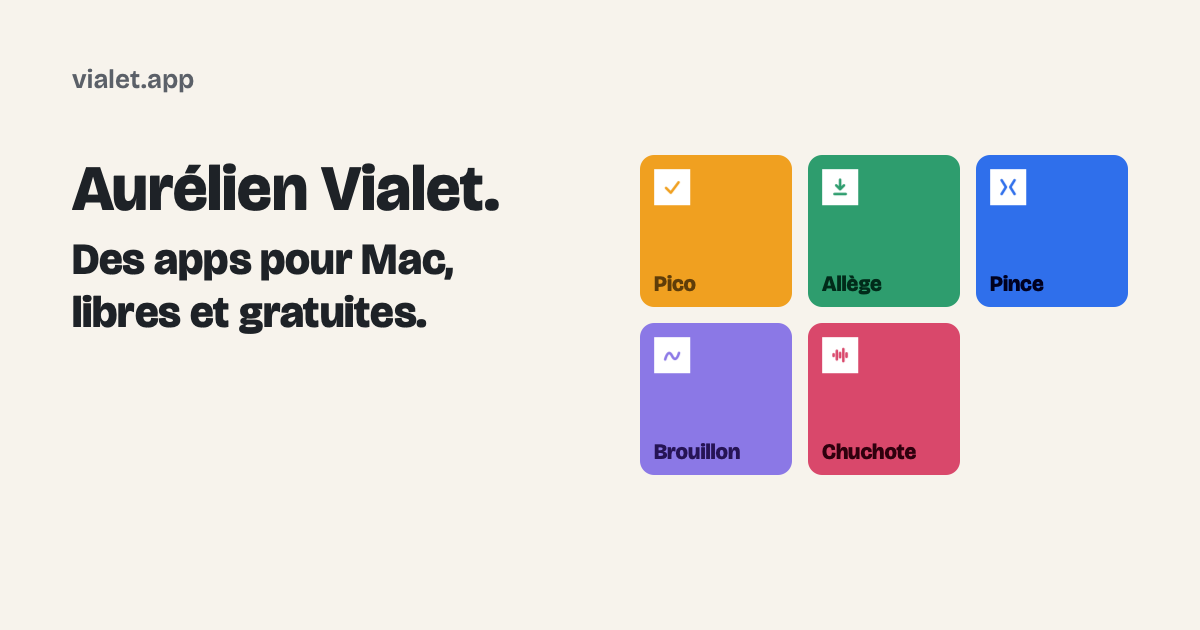
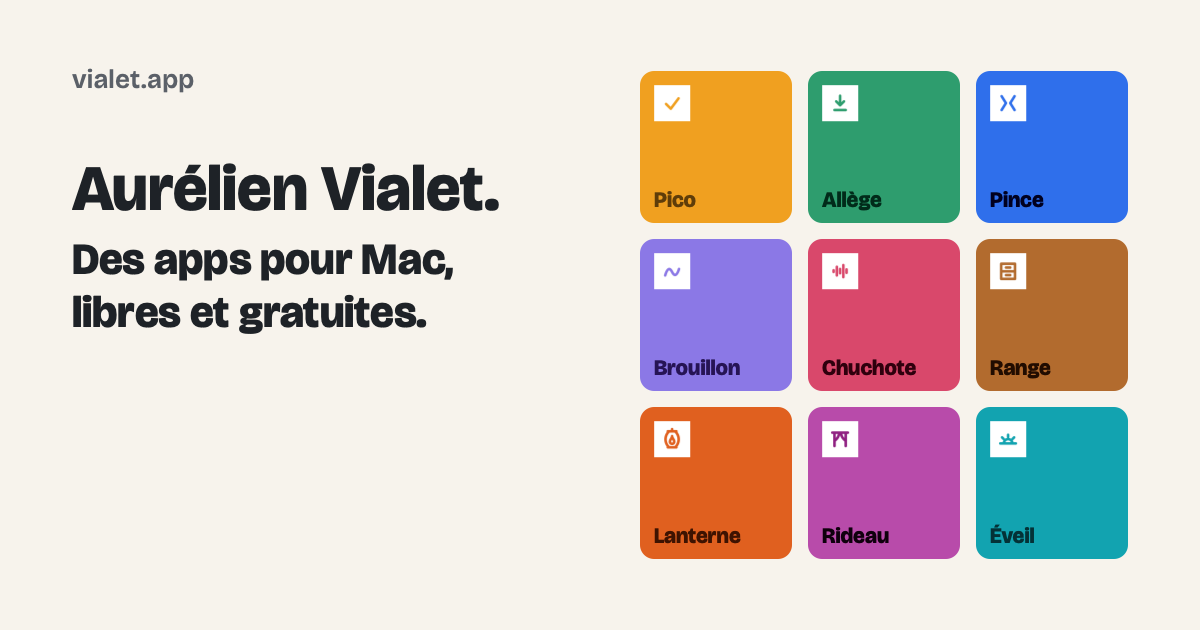
Catalogue : Range, Lanterne, Rideau et Eveil ; icones et image de partage a neuf apps

Changed region(s): [[0.5242, 0.0905, 0.9558, 0.9048]]

diff --git a/site/public/index.html b/site/public/index.html
@@ -5,7 +5,7 @@
   <meta charset="utf-8">
   <meta name="viewport" content="width=device-width, initial-scale=1">
   <title>Aurélien Vialet, des apps pour Mac</title>
-  <meta name="description" content="Les apps Mac d'Aurélien Vialet : natives, gratuites, sous licence MIT, sans compte ni télémétrie. Pico, Allège, Pince, Brouillon, Chuchote.">
+  <meta name="description" content="Les apps Mac d'Aurélien Vialet : natives, gratuites, sous licence MIT, sans compte ni télémétrie. Pico, Allège, Pince, Brouillon, Chuchote, Range, Lanterne, Rideau, Éveil.">
   <meta name="theme-color" content="#F7F3EC" media="(prefers-color-scheme: light)">
   <meta name="theme-color" content="#14161B" media="(prefers-color-scheme: dark)">
   <link rel="icon" href="/favicon.svg" type="image/svg+xml">
@@ -23,7 +23,7 @@
   <link rel="stylesheet" href="/vialet/vialet.css?v=75c684ea">
   <link rel="stylesheet" href="/hub.css?v=71e1b3f5">
 </head>
-<body data-hub style="--plaque-hub:conic-gradient(#F0A020 0 20%, #2E9D6E 0 40%, #2F6FEB 0 60%, #8B78E6 0 80%, #D9486B 0)">
+<body data-hub style="--plaque-hub:conic-gradient(#F0A020 0 11.11%, #2E9D6E 0 22.22%, #2F6FEB 0 33.33%, #8B78E6 0 44.44%, #D9486B 0 55.56%, #B26B2E 0 66.67%, #E0601F 0 77.78%, #B84BAA 0 88.89%, #12A3B0 0)">
 <header class="hub-tete">
   <a class="marque" href="/"><span class="plaque plaque-hub" aria-hidden="true"></span><span>vialet.app</span></a>
   <nav class="hub-liens" aria-label="Ailleurs">
@@ -93,6 +93,54 @@
         <span class="bloc-nom">Chuchote</span>
         <span class="bloc-accroche">Parlez, c&#x27;est écrit là où est le curseur.</span>
         <span class="bloc-suite">chuchote.vialet.app</span>
+        
+      </a>
+      
+    </li>
+    
+    <li>
+      <a class="bloc" href="https://range.vialet.app" style="--accent:#B26B2E;--accent-bg:#B26B2E;--accent-deep:#210C00">
+      
+        <span class="plaque"><svg xmlns="http://www.w3.org/2000/svg" viewBox="0 0 100 100" aria-hidden="true" focusable="false"><rect x="0" y="0" width="100" height="100" rx="22.45" fill="#FFFFFF"/><path d="M 18 16 H 82 V 86 H 18 Z M 18 51 H 82 M 40 33.5 H 60 M 40 68.5 H 60" transform="translate(20 20) scale(0.6)" fill="none" stroke="#B26B2E" stroke-width="12" stroke-linecap="round" stroke-linejoin="round"/></svg></span>
+        <span class="bloc-nom">Range</span>
+        <span class="bloc-accroche">Les téléchargements se rangent tout seuls.</span>
+        <span class="bloc-suite">range.vialet.app</span>
+        
+      </a>
+      
+    </li>
+    
+    <li>
+      <a class="bloc" href="https://lanterne.vialet.app" style="--accent:#E0601F;--accent-bg:#E0601F;--accent-deep:#3E1301">
+      
+        <span class="plaque"><svg xmlns="http://www.w3.org/2000/svg" viewBox="0 0 100 100" aria-hidden="true" focusable="false"><rect x="0" y="0" width="100" height="100" rx="22.45" fill="#FFFFFF"/><path d="M 50 4 V 14 M 30 14 H 70 M 36 14 C 14 34 14 68 36 88 M 64 14 C 86 34 86 68 64 88 M 30 88 H 70 M 50 36 C 50 46 40 52 40 62 C 40 68 45 72 50 72 C 55 72 60 68 60 62 C 60 52 50 46 50 36 Z" transform="translate(20 20) scale(0.6)" fill="none" stroke="#E0601F" stroke-width="12" stroke-linecap="round" stroke-linejoin="round"/></svg></span>
+        <span class="bloc-nom">Lanterne</span>
+        <span class="bloc-accroche">Un lanceur qui apprend vos habitudes et dit pourquoi.</span>
+        <span class="bloc-suite">lanterne.vialet.app</span>
+        
+      </a>
+      
+    </li>
+    
+    <li>
+      <a class="bloc" href="https://rideau.vialet.app" style="--accent:#8E1E80;--accent-bg:#B84BAA;--accent-deep:#0F000D">
+      
+        <span class="plaque"><svg xmlns="http://www.w3.org/2000/svg" viewBox="0 0 100 100" aria-hidden="true" focusable="false"><rect x="0" y="0" width="100" height="100" rx="22.45" fill="#FFFFFF"/><path d="M 14 20 H 86 M 24 20 V 82 M 76 20 V 82 M 46 20 C 44 42 32 52 24 58 M 54 20 C 56 42 68 52 76 58" transform="translate(20 20) scale(0.6)" fill="none" stroke="#8E1E80" stroke-width="12" stroke-linecap="round" stroke-linejoin="round"/></svg></span>
+        <span class="bloc-nom">Rideau</span>
+        <span class="bloc-accroche">Le désordre passe en coulisses.</span>
+        <span class="bloc-suite">rideau.vialet.app</span>
+        
+      </a>
+      
+    </li>
+    
+    <li>
+      <a class="bloc" href="https://eveil.vialet.app" style="--accent:#12A3B0;--accent-bg:#12A3B0;--accent-deep:#043237">
+      
+        <span class="plaque"><svg xmlns="http://www.w3.org/2000/svg" viewBox="0 0 100 100" aria-hidden="true" focusable="false"><rect x="0" y="0" width="100" height="100" rx="22.45" fill="#FFFFFF"/><path d="M 14 70 H 86 M 30 70 C 30 58.95 38.95 50 50 50 C 61.05 50 70 58.95 70 70 M 50 30 V 40 M 22 42 L 29 49 M 78 42 L 71 49" transform="translate(20 20) scale(0.6)" fill="none" stroke="#12A3B0" stroke-width="12" stroke-linecap="round" stroke-linejoin="round"/></svg></span>
+        <span class="bloc-nom">Éveil</span>
+        <span class="bloc-accroche">Le Mac reste éveillé, le temps qu&#x27;il faut.</span>
+        <span class="bloc-suite">eveil.vialet.app</span>
         
       </a>
       
